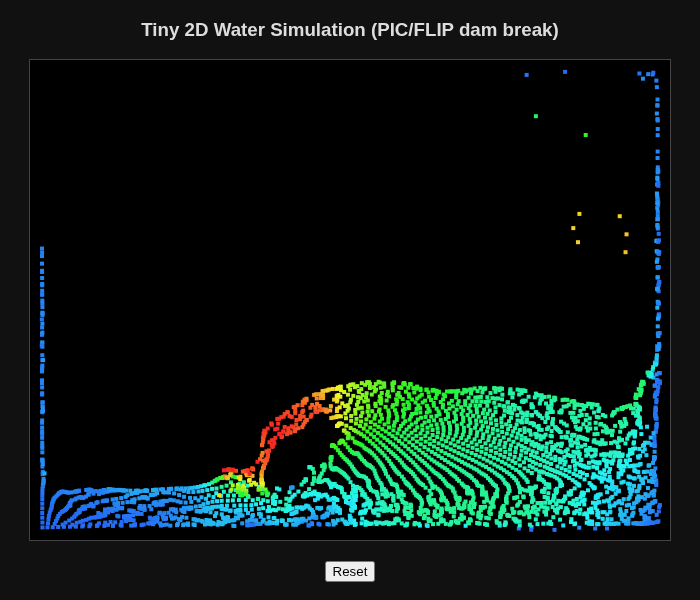
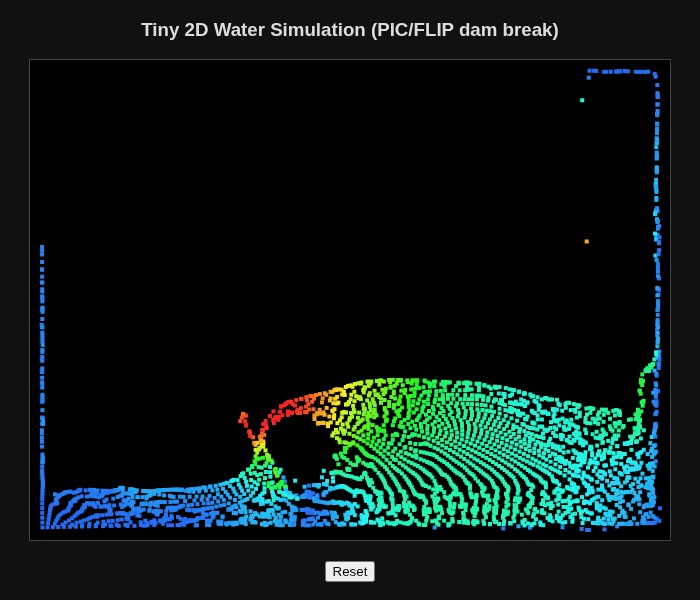
learn: adaptive substeps per 1/240 s frame (CFL max|u|dt/h<=1, cap 8), PRESSURE_TOLERANCE constant, per-frame hitSweepCap flag; fingerprint script. checks.js: free fall path/landing FAIL (substeps change the discrete trajectory the check assumes), still pool + water conserved PASS

diff --git a/learn/fluid2d.js b/learn/fluid2d.js
@@ -9,7 +9,7 @@ const CELL = 1 / GRID_H;         // size of one cell (the box is 1 unit tall)
 const GRAVITY = -9.8;            // pull downwards (units per second squared)
 const FLIP_RATIO = 0.9;          // 0 = smooth/syrupy (PIC), 1 = lively/noisy (FLIP)
 const MAX_SWEEPS = 200;          // most times we repeat the "no squashing" fix
-const TOLERANCE = 1e-4;          // "good enough": leftover squash below this (m/s)
+const PRESSURE_TOLERANCE = 1e-4; // "good enough": leftover squash below this (m/s)
 const AIR = 0, WATER = 1, WALL = 2;
 
 // "MAC grid": horizontal speeds (u) live on the LEFT/RIGHT edges of each cell,
@@ -93,7 +93,7 @@ function applyGravity(w, dt) {
 // difference equally back through the cell's open (non-wall) sides. Fixing
 // one cell slightly upsets its neighbours, so we sweep the grid again and
 // again (Gauss-Seidel), each time a bit closer. We stop once the worst cell is
-// below TOLERANCE, or after MAX_SWEEPS as a safety limit. Walls block flow.
+// below PRESSURE_TOLERANCE, or after MAX_SWEEPS as a safety limit. Walls block flow.
 function solvePressure(w) {
   const U = (i, j) => i + j * (GRID_W + 1), V = (i, j) => i + j * GRID_W;
   const open = (i, j) => (w.type[i + j * GRID_W] !== WALL ? 1 : 0);
@@ -118,7 +118,8 @@ function solvePressure(w) {
         w.v[V(i, j)] += sb * fix;  w.v[V(i, j + 1)] -= st * fix;
       }
     w.sweeps = sweep + 1;                        // how many sweeps it took (for curious readers)
-    if (worst < TOLERANCE) break;
+    if (worst < PRESSURE_TOLERANCE) break;
+    if (sweep === MAX_SWEEPS - 1) w.hitSweepCap = true;  // gave up before "good enough"
   }
 }
 
@@ -155,10 +156,8 @@ function moveParticles(w, dt) {
   }
 }
 
-// One full simulation step: the five steps above, in order.
-// Time step: the fastest water (~3.8 m/s at the dam-break front) must move
-// less than one cell per step ("CFL rule"): 3.8 * (1/240) = 0.016 < CELL = 0.021.
-function step(w, dt = 1 / 240) {
+// One small "substep": the five steps above, in order.
+function substep(w, dt) {
   particlesToGrid(w);
   applyGravity(w, dt);
   solvePressure(w);
@@ -166,5 +165,18 @@ function step(w, dt = 1 / 240) {
   moveParticles(w, dt);
 }
 
+// One frame (1/240 s by default). The "CFL rule": no particle may move more
+// than one cell per substep, so fast water gets more, smaller substeps
+// (at most MAX_SUBSTEPS). w.hitSweepCap tells you if the pressure fix ever
+// ran out of sweeps during this frame.
+const MAX_SUBSTEPS = 8;
+function step(w, frameDt = 1 / 240) {
+  let fastest = 0;
+  for (let p = 0; p < w.x.length; p++) fastest = Math.max(fastest, Math.hypot(w.vx[p], w.vy[p]));
+  const n = Math.min(MAX_SUBSTEPS, Math.max(1, Math.ceil((fastest * frameDt) / CELL)));
+  w.hitSweepCap = false; w.substeps = n;
+  for (let i = 0; i < n; i++) substep(w, frameDt / n);
+}
+
 // Let Node.js (tests) use this file too; browsers simply skip this.
-if (typeof module !== 'undefined') module.exports = { createWorld, step, GRID_W, GRID_H, CELL };
+if (typeof module !== 'undefined') module.exports = { createWorld, step, substep, GRID_W, GRID_H, CELL };

diff --git a/learn/fingerprint.js b/learn/fingerprint.js
@@ -1,0 +1,5 @@
+// Default-run fingerprint: sha256 of particle positions (Float64, x0,y0,x1,y1,...) after 2 s (480 frames of 1/240 s).
+const crypto = require('crypto'), { createWorld, step } = require('./fluid2d.js');
+const w = createWorld(); for (let f = 0; f < 480; f++) step(w);
+const buf = new Float64Array(2 * w.x.length); for (let p = 0; p < w.x.length; p++) { buf[2 * p] = w.x[p]; buf[2 * p + 1] = w.y[p]; }
+console.log(`particles ${w.x.length}  sha256 ${crypto.createHash('sha256').update(Buffer.from(buf.buffer)).digest('hex')}`);

diff --git a/learn/README.md b/learn/README.md
@@ -40,4 +40,4 @@ up inside a wall, we put it back at the wall and stop its speed into the wall.
 - There is no particle-spacing or density correction, so particles can bunch into lines and the
   water volume slowly drifts. The real sim adds both.
 - Gauss-Seidel stops at max |divergence| < 1e-4 m/s or 200 sweeps, so it is close to, not exactly, incompressible.
-- Fixed time step 1/240 s (4 steps per drawn frame), chosen so the ~3.8 m/s dam-break front moves under one cell per step (CFL rule). There is no adaptive step.
+- Each `step` is one 1/240 s frame (4 per drawn frame), split into 1-8 substeps so no particle moves more than one cell per substep (CFL rule). If even 8 is not enough the rule is broken for that frame. `w.substeps` and `w.hitSweepCap` (pressure ran out of sweeps) are set every frame.
